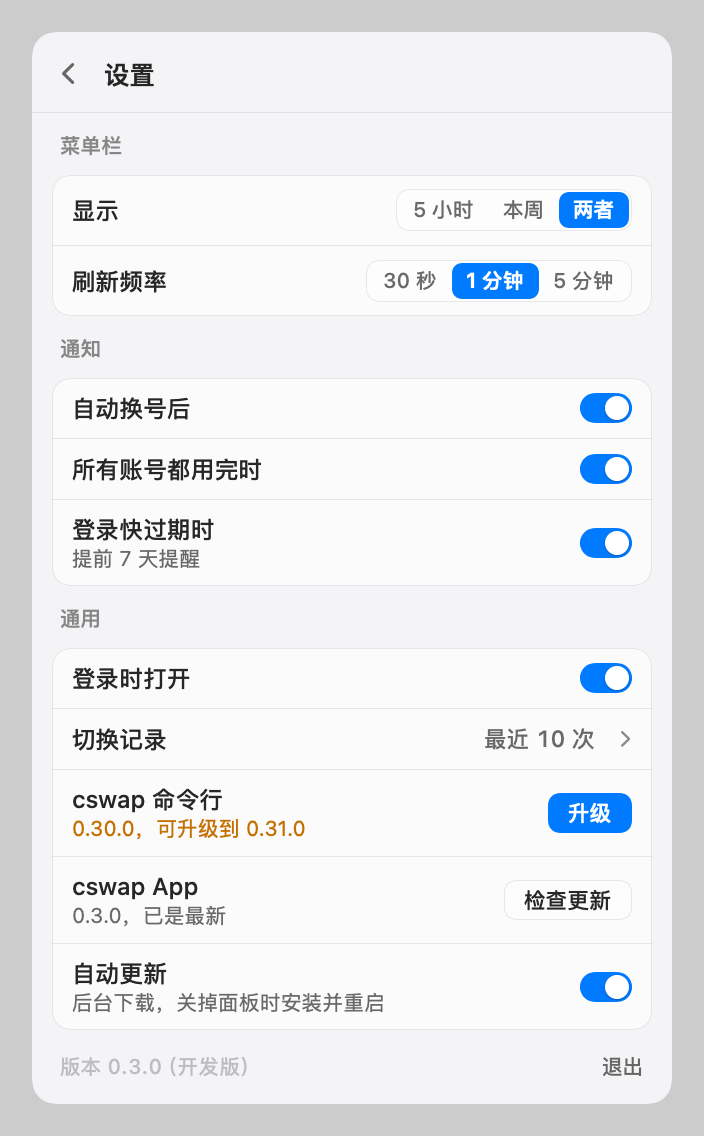
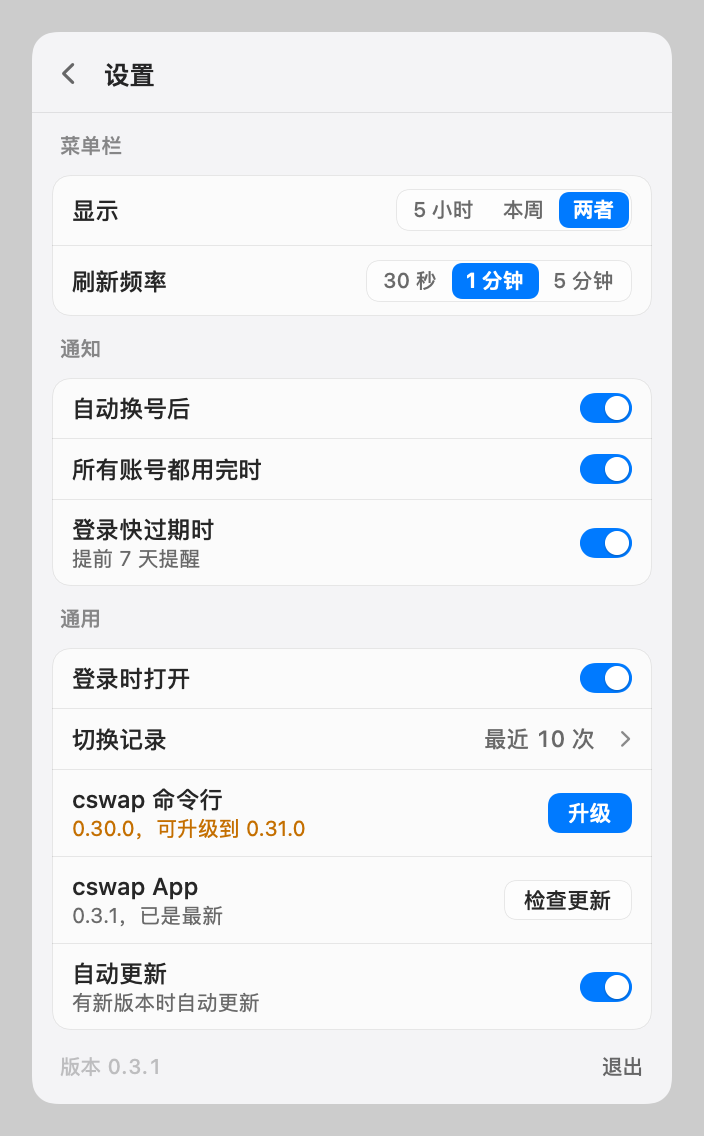
cswap 0.3.1：更新文案改用户视角，修「已更新到」偶尔不出现
- 安装新版前把偏好写盘再退出（0.2.99 → 0.3.0 实测丢过「已更新到」标记）
- 文案：「x 已准备好，稍后自动更新」「有新版本 x」「正在更新到 x…」「有新版本时自动更新」
- 设置页底部去掉「构建 N」；截图工具不标开发版
- 启动时清掉上次更新留下的下载文件

diff --git a/Sources/CswapCore/AppUpdate.swift b/Sources/CswapCore/AppUpdate.swift
@@ -117,15 +117,15 @@ public struct AppUpdateRow: Sendable, Equatable {
         case .checking:
             return AppUpdateRow(subtitle: current, level: .off, action: .checking, spinning: false)
         case .available(let c):
-            return AppUpdateRow(subtitle: "\(current)，可更新到 \(c.version)", level: .ok,
+            return AppUpdateRow(subtitle: "有新版本 \(c.version)", level: .ok,
                                 action: canInstall ? .update : .openPage, spinning: false)
         case .downloading(let c):
             return AppUpdateRow(subtitle: "正在下载 \(c.version)", level: .off, action: .none, spinning: true)
         case .ready(let c):
-            return AppUpdateRow(subtitle: autoUpdate ? "\(c.version) 已下载，关掉面板后自动安装" : "\(c.version) 已下载",
+            return AppUpdateRow(subtitle: autoUpdate ? "\(c.version) 已准备好，稍后自动更新" : "\(c.version) 已准备好",
                                 level: .ok, action: .installNow, spinning: false)
         case .installing(let v):
-            return AppUpdateRow(subtitle: "正在安装 \(v)，马上重启", level: .off, action: .none, spinning: true)
+            return AppUpdateRow(subtitle: "正在更新到 \(v)…", level: .off, action: .none, spinning: true)
         case .failed(let why):
             return AppUpdateRow(subtitle: "更新失败：\(why)", level: .warn, action: .retry, spinning: false)
         case .idle:

diff --git a/Tests/CswapCoreTests/AppUpdateTests.swift b/Tests/CswapCoreTests/AppUpdateTests.swift
@@ -61,11 +61,12 @@ struct AppUpdateTests {
         #expect(row(.idle).subtitle == "0.2.0" && row(.idle).action == .check)
         #expect(row(.idle, upToDate: true).subtitle == "0.2.0，已是最新")
         #expect(row(.checking).action == .checking)
-        #expect(row(.available(c), auto: false) == AppUpdateRow(subtitle: "0.2.0，可更新到 0.3.0", level: .ok, action: .update, spinning: false))
+        #expect(row(.available(c), auto: false) == AppUpdateRow(subtitle: "有新版本 0.3.0", level: .ok, action: .update, spinning: false))
         #expect(row(.available(c), canInstall: false).action == .openPage)
         #expect(row(.downloading(c)).spinning)
-        #expect(row(.ready(c)).subtitle == "0.3.0 已下载，关掉面板后自动安装")
-        #expect(row(.ready(c), auto: false).subtitle == "0.3.0 已下载")
+        #expect(row(.ready(c)).subtitle == "0.3.0 已准备好，稍后自动更新")
+        #expect(row(.ready(c), auto: false).subtitle == "0.3.0 已准备好")
+        #expect(row(.installing("0.3.0")).subtitle == "正在更新到 0.3.0…")
         #expect(row(.failed("安装包签名不对")).subtitle == "更新失败：安装包签名不对")
         #expect(row(.failed("x")).level == .warn && row(.failed("x")).action == .retry)
         #expect(row(.available(c), dev: true).subtitle == "0.2.0（开发版，不自动更新）")

diff --git a/Sources/CswapUI/PanelModel.swift b/Sources/CswapUI/PanelModel.swift
@@ -172,10 +172,9 @@ public final class PanelModel {
         return CswapVersion.isOlder(v, than: latestVersion ?? CswapVersion.minimum)
     }
 
-    /// 「版本 0.1.0（构建 12）」；不在打包的 App 里运行（swift run、截图工具）时标为开发版
+    /// 「版本 0.3.0」；不在打包的 App 里运行（swift run、截图工具）时标为开发版
     public var appVersion: String {
-        guard let build = Bundle.main.infoDictionary?["CFBundleVersion"] as? String else { return "版本 \(AppVersion.current)（开发版）" }
-        return "版本 \(AppVersion.current)（构建 \(build)）"
+        Bundle.main.infoDictionary?["CFBundleVersion"] == nil && !isPreview ? "版本 \(AppVersion.current)（开发版）" : "版本 \(AppVersion.current)"
     }
 
     // MARK: 启动与刷新
@@ -642,6 +641,8 @@ public final class PanelModel {
             if CswapVersion.isOlder(from, than: AppVersion.current) { justUpdated = AppVersion.current }
         }
         guard !isDevBuild else { return }
+        // 上次更新留下的下载与解压文件
+        try? FileManager.default.removeItem(at: AppUpdater.stagingRoot)
         updateLoop = Task { [weak self] in
             try? await Task.sleep(for: .seconds(30))   // 启动先让 cswap 那边跑起来
             while !Task.isCancelled {

diff --git a/Sources/CswapCore/Version.swift b/Sources/CswapCore/Version.swift
@@ -4,7 +4,7 @@
 /// 改版本时同时在 CHANGELOG.md 记一笔（有测试守着）；tools/package.sh release 会打 v<版本> 标签，
 /// 标签已存在且不在当前提交上时拒绝打包（= 改了代码忘了改版本号）。做法同 NetHub
 public enum AppVersion {
-    public static let current = "0.3.0"
+    public static let current = "0.3.1"
     /// 一句话介绍：写进 Info.plist，显示在访达「显示简介」/ 快速查看里（设置页不放）
     public static let tagline = "Claude Code 账号切换（搭配 Claude-cswap）"
 }

diff --git a/Sources/CswapUI/Views/SettingsViews.swift b/Sources/CswapUI/Views/SettingsViews.swift
@@ -199,7 +199,7 @@ struct GeneralSettingsView: View {
             appRow
             if !model.isDevBuild {
                 RowSeparator()
-                SettingRow(title: "自动更新", subtitle: "后台下载，关掉面板时安装并重启") {
+                SettingRow(title: "自动更新", subtitle: "有新版本时自动更新") {
                     Switch(isOn: model.autoUpdate) { model.setAutoUpdate($0) }
                 }
             }

diff --git a/Sources/CswapUI/Preferences.swift b/Sources/CswapUI/Preferences.swift
@@ -35,4 +35,7 @@ struct Preferences {
         get { d.string(forKey: Key.pendingUpdateFrom.rawValue) }
         set { d.set(newValue, forKey: Key.pendingUpdateFrom.rawValue) }
     }
+
+    /// 马上写盘：更新安装后进程会立即退出，不等就会丢掉刚写的值（实测 0.2.99 → 0.3.0 丢过「已更新到」）
+    static func flush() { d.synchronize() }
 }

diff --git a/Sources/CswapUI/Services/AppUpdater.swift b/Sources/CswapUI/Services/AppUpdater.swift
@@ -150,6 +150,7 @@ enum AppUpdater {
         }
         try? fm.removeItem(at: backup)
         Preferences.pendingUpdateFrom = AppVersion.current
+        Preferences.flush()
         relaunch(current, beforeQuit: beforeQuit)
     }
 

diff --git a/docs/07-决策记录.md b/docs/07-决策记录.md
@@ -64,3 +64,4 @@
 | 发布与仓库（用户 2026-11-09） | 仓库改公开（重写历史，真实邮箱 / 账号 ID 换成假数据）；保留 Claude logo；推标签后 CI 发布；建自签名证书「cswap Code Signing」 | 另建只放安装包的公开仓库；借本机 gh 登录下载私有 Release；继续临时签名 |
 | 「有效期至」（用户 2026-11-09） | 名字不变，含义是**登录**有效期（刷新令牌到期日） | 改名「登录有效期至」 |
 | 订阅到期日（用户 2026-11-09） | 先不做。查证：cswap、Claude Code 本地缓存与程序里都没有订阅到期日，只有订阅开始日（可推算按月续费日） | 手动填写；按开始日自动推算 |
+| 更新文案（用户 2026-11-09） | 用户视角：「x 已准备好，稍后自动更新」「有新版本 x」「正在更新到 x…」，开关说明「有新版本时自动更新」；设置页底部只显示版本号 | 「已下载，关掉面板后自动安装」「后台下载，关掉面板时安装并重启」（讲的是实现）；「版本 x（构建 N）」 |

diff --git a/CHANGELOG.md b/CHANGELOG.md
@@ -4,6 +4,13 @@
 与旧版不兼容（数据格式、安装布局）改第一位。每次改版本在这里记一笔，`tools/package.sh release` 打 `v<版本>` 标签。
 设计与决策见 [docs/](docs/)。
 
+## 0.3.1 — 2026-11-09
+
+- **自动更新后「已更新到 …」有时不出现**：旧版刚记下版本就退出、没来得及写盘，现在退出前先写盘
+- **更新文案改成用户视角**：「0.3.0 已准备好，稍后自动更新」「有新版本 0.3.0」「正在更新到 0.3.0…」；「自动更新」开关说明改为「有新版本时自动更新」
+- **设置页底部只显示版本号**，去掉「构建 N」
+- 更新后清掉上次下载留下的安装包
+
 ## 0.3.0 — 2026-11-09
 
 - **App 自动更新**：启动后和之后每 6 小时查一次 GitHub 上的新版本，后台下载、核对签名证书与当前 App 一致后，等面板关着时安装并自动重启；设置页「通用」新增「cswap App」一栏（版本、检查更新）和「自动更新」开关（默认打开）
